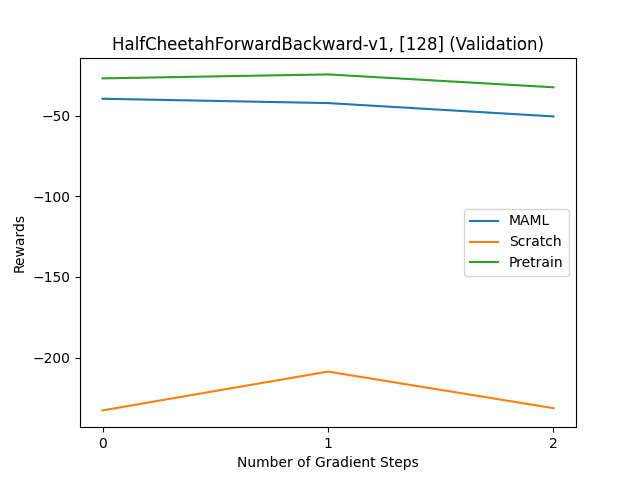
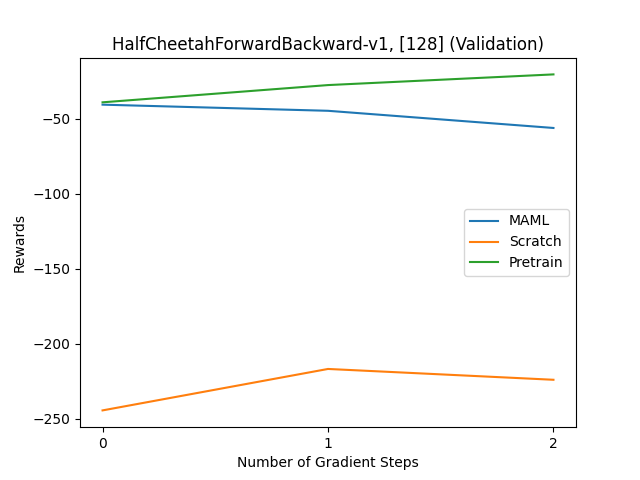
plotting reorganization

diff --git a/main.py b/main.py
@@ -1,6 +1,5 @@
 from policy_gradient import *
 import os
-from matplotlib import pyplot as plt
 
 def main(envs, hiddens, train_iters=50, eval_iters=5, num_workers=1):
     # directory for storing models and performancce data
@@ -49,63 +48,6 @@ def main(envs, hiddens, train_iters=50, eval_iters=5, num_workers=1):
             pretrain_path = './models/' + env + '/' + "_".join([str(n) for n in hidden_dims]) + '/pg_pretrain' + '.pt'
             train_pg(env_name=env, num_iterations=eval_iters, policy_hidden=hidden_dims, filepath=pretrain_path,mode_str="pretrain", num_workers=num_workers)
 
-
-
-def plotGraphs(env, hidden_dims, grad_steps=3, show=False):
-    data_path = './performance_data/' + env + '/' + "_".join([str(n) for n in hidden_dims]) + '/'
-
-    maml_train = np.load(data_path + "pg_train_maml_train_rewards.npy")
-    maml_val = np.load(data_path + "pg_train_maml_val_rewards.npy")
-
-    scratch_train = np.load(data_path + "pg_train_scratch_train_rewards.npy")
-    scratch_val = np.load(data_path + "pg_train_scratch_val_rewards.npy")
-
-    pretrain_train = np.load(data_path + "pg_train_pretrain_train_rewards.npy")
-    pretrain_val = np.load(data_path + "pg_train_pretrain_val_rewards.npy")
-
-    plt.figure()
-    graph_ticks = min(len(maml_train), grad_steps)
-    x_axis = range(graph_ticks)
-    plt.plot(x_axis, maml_val[:graph_ticks], label="MAML")
-    plt.plot(x_axis, scratch_val[:graph_ticks], label="Scratch")
-    plt.plot(x_axis, pretrain_val[:graph_ticks], label="Pretrain")
-    plt.xticks(x_axis)
-    plt.legend(loc="best")
-    plt.xlabel("Number of Gradient Steps")
-    plt.ylabel("Rewards")
-    plt.title(env + ", " +  str(hidden_dims) + ' (Validation)')
-    plt.savefig("./graphs/" + env + "_" +  "_".join([str(n) for n in hidden_dims]) + ".png")
-    if show:
-        plt.show()
-
-def plotGraphsHidden(env, grad_steps=3, show=False):
-    data_path = './performance_data/' + env + '/' 
-
-    maml_train_1 = np.load(data_path +  "128/pg_train_maml_train_rewards.npy")
-    maml_val_1 = np.load(data_path + "128/pg_train_maml_val_rewards.npy")
-
-    maml_train_2 = np.load(data_path +  "128_128/pg_train_maml_train_rewards.npy")
-    maml_val_2 = np.load(data_path + "128_128/pg_train_maml_val_rewards.npy")
-
-    maml_train_3 = np.load(data_path +  "128_128_128/pg_train_maml_train_rewards.npy")
-    maml_val_3 = np.load(data_path + "128_128_128/pg_train_maml_val_rewards.npy")
-
-    
-
-    plt.figure()
-    graph_ticks = min(len(maml_train_1), grad_steps)
-    x_axis = range(graph_ticks)
-    plt.plot(x_axis, maml_val_1[:graph_ticks], label="1 Hidden")
-    plt.plot(x_axis, maml_val_2[:graph_ticks], label="2 Hidden")
-    plt.plot(x_axis, maml_val_3[:graph_ticks], label="3 Hidden")
-    plt.xticks(x_axis)
-    plt.legend(loc="best")
-    plt.xlabel("Number of Gradient Steps")
-    plt.ylabel("Rewards")
-    plt.title(env + ' (Validation)')
-    plt.savefig("./graphs/" + env + "_" +  "hidden.png")
-    if show:
-        plt.show()
 
   
 

diff --git a/plot.py b/plot.py
@@ -1,0 +1,64 @@
+import numpy as np
+from matplotlib import pyplot as plt
+
+
+def plotGraphs(env, hidden_dims, grad_steps=3, show=False):
+    data_path = './performance_data/' + env + '/' + "_".join([str(n) for n in hidden_dims]) + '/'
+
+    maml_train = np.load(data_path + "pg_train_maml_train_rewards.npy")
+    maml_val = np.load(data_path + "pg_train_maml_val_rewards.npy")
+
+    scratch_train = np.load(data_path + "pg_train_scratch_train_rewards.npy")
+    scratch_val = np.load(data_path + "pg_train_scratch_val_rewards.npy")
+
+    pretrain_train = np.load(data_path + "pg_train_pretrain_train_rewards.npy")
+    pretrain_val = np.load(data_path + "pg_train_pretrain_val_rewards.npy")
+
+    plt.figure()
+    graph_ticks = min(len(maml_train), grad_steps)
+    x_axis = range(graph_ticks)
+    plt.plot(x_axis, maml_train[:graph_ticks], label="MAML")
+    plt.plot(x_axis, scratch_train[:graph_ticks], label="Scratch")
+    plt.plot(x_axis, pretrain_train[:graph_ticks], label="Pretrain")
+    plt.xticks(x_axis)
+    plt.legend(loc="best")
+    plt.xlabel("Number of Gradient Steps")
+    plt.ylabel("Rewards")
+    plt.title(env + ", " +  str(hidden_dims) + ' (Validation)')
+    plt.savefig("./graphs/" + env + "_" +  "_".join([str(n) for n in hidden_dims]) + ".png")
+    if show:
+        plt.show()
+
+def plotGraphsHidden(env, grad_steps=3, show=False):
+    data_path = './performance_data/' + env + '/' 
+
+    maml_train_1 = np.load(data_path +  "128/pg_train_maml_train_rewards.npy")
+    maml_val_1 = np.load(data_path + "128/pg_train_maml_val_rewards.npy")
+
+    maml_train_2 = np.load(data_path +  "128_128/pg_train_maml_train_rewards.npy")
+    maml_val_2 = np.load(data_path + "128_128/pg_train_maml_val_rewards.npy")
+
+    maml_train_3 = np.load(data_path +  "128_128_128/pg_train_maml_train_rewards.npy")
+    maml_val_3 = np.load(data_path + "128_128_128/pg_train_maml_val_rewards.npy")
+
+    
+
+    plt.figure()
+    graph_ticks = min(len(maml_train_1), grad_steps)
+    x_axis = range(graph_ticks)
+    plt.plot(x_axis, maml_val_1[:graph_ticks], label="1 Hidden")
+    plt.plot(x_axis, maml_val_2[:graph_ticks], label="2 Hidden")
+    plt.plot(x_axis, maml_val_3[:graph_ticks], label="3 Hidden")
+    plt.xticks(x_axis)
+    plt.legend(loc="best")
+    plt.xlabel("Number of Gradient Steps")
+    plt.ylabel("Rewards")
+    plt.title(env + ' (Validation)')
+    plt.savefig("./graphs/" + env + "_" +  "hidden.png")
+    if show:
+        plt.show()
+
+if __name__ == "__main__":
+    plotGraphs("HalfCheetahForwardBackward-v1", [128], show=True)
+    plotGraphs("HalfCheetahForwardBackward-v1", [128,128], show=True)
+    plotGraphs("HalfCheetahForwardBackward-v1", [128,128, 128], show=True)
